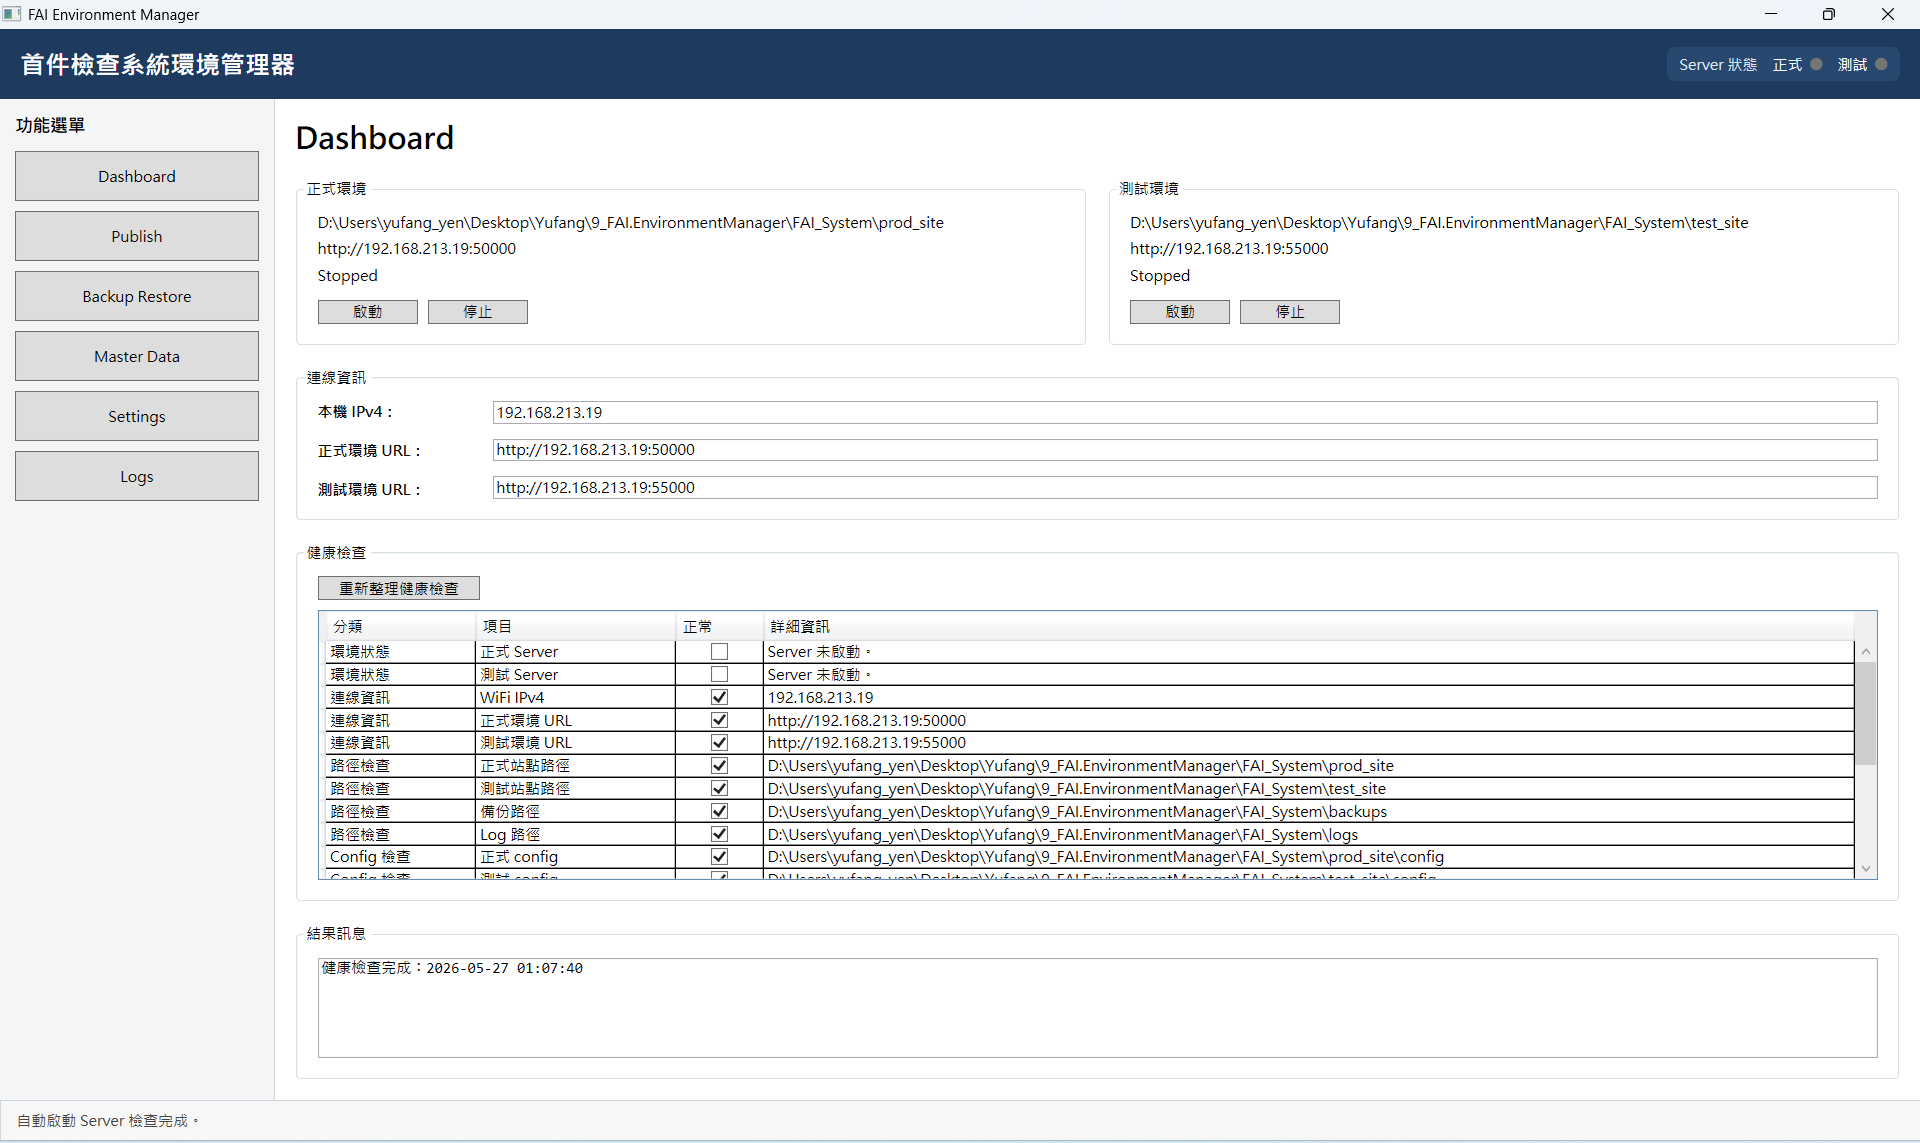
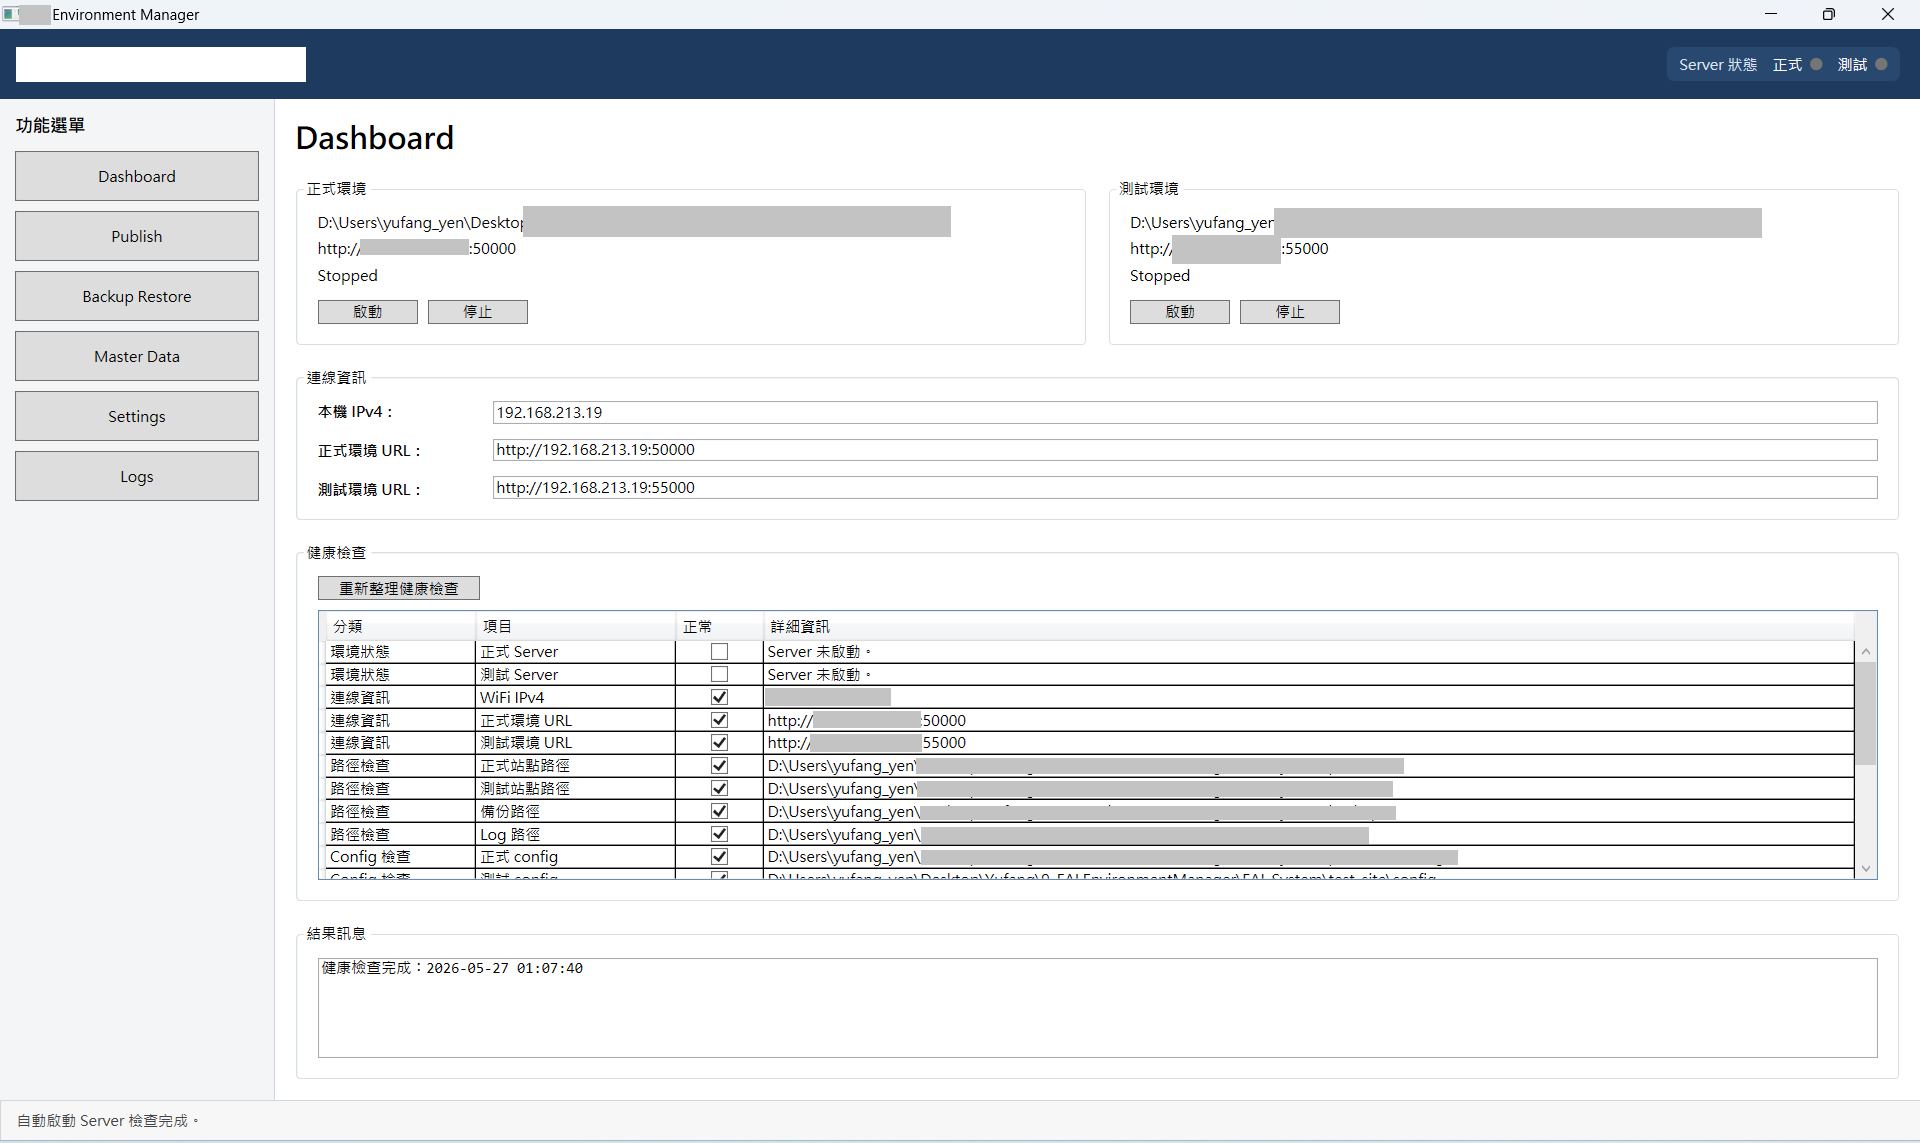
update index.html and wpf

diff --git a/index.html b/index.html
@@ -15,7 +15,7 @@
                 --text-color: #e5e7eb;
                 --sub-text: #94a3b8;
 
-                --hero-overlay: linear-gradient(to right, rgba(10,20,40,0.6), rgba(10,20,40,0.9));
+                --hero-overlay: linear-gradient(to right, rgba(10,20,40,0.5), rgba(10,20,40,0.9));
                 --hero-blur: rgba(5, 10, 25, 0.75);
 
                 --shadow: 0 10px 30px rgba(0,0,0,0.5);
@@ -30,7 +30,7 @@
                 --text-color: #0f172a;
                 --sub-text: #475569;
 
-                --hero-overlay: linear-gradient(to right, rgba(255,255,255,0.6), rgba(240,245,255,0.9));
+                --hero-overlay: linear-gradient(to right, rgba(255,255,255,0.5), rgba(240,245,255,0.9));
                 --hero-blur: rgba(255, 255, 255, 0.6);
 
                 --shadow: 0 10px 30px rgba(0,0,0,0.3);
@@ -72,7 +72,8 @@
             .hero-text {
                 position: relative;
                 max-width: 600px;
-                margin-left: 10%;
+                margin-left: 12%;
+                margin-top: 40px;
                 z-index: 1;
                 animation: fadeUp 1.2s ease forwards;
                 opacity: 0;
@@ -147,10 +148,11 @@
                 color: #aaa;
                 font-size: 13px;
                 margin-top: 10px;
+                margin-bottom: 10px;
             }
 
 
-            /* ✅ 流動動畫 */
+            /* 流動動畫 */
             .arch-line span {
                 position: absolute;
                 width: 40px;
@@ -164,7 +166,7 @@
                 100% { left: 100%; }
             }
 
-            /* ✅ Responsive */
+            /* Responsive */
             @media (max-width: 768px) {
                 .architecture-horizontal {
                     flex-direction: column;
@@ -248,20 +250,55 @@
             .scroll-btn {
                 position: absolute;
                 top: 40%;
-                background: #1e2a3a;
-                color: white;
-                border: none;
-                font-size: 24px;
-                padding: 10px;
+
+                background: rgba(255, 255, 255, 0.6);
+                color: var(--text-color);
+
+                border: 1px solid rgba(255,255,255,0.12);
+
+                font-size: 20px;
+                padding: 10px 14px;
+
                 cursor: pointer;
                 z-index: 10;
+
+                backdrop-filter: blur(6px);
+
+                transition: all 0.25s ease;
+
+                box-shadow: 0 6px 20px rgba(0,0,0,0.4);
             }
 
-            .scroll-btn.left { left: -10px; }
-            .scroll-btn.right { right: -10px; }
+            .scroll-btn:hover {
+                background: rgba(74, 163, 255, 0.2);
+                color: #ffffff;
+                border-color: #4aa3ff;
+
+                transform: translateY(-10%) scale(1.05);
+            }
+
+            .scroll-btn:active {
+                transform: translateY(-10%) scale(0.95);
+            }
 
 
-            .card {
+            .scroll-btn.left { left: -5px; }
+            .scroll-btn.right { right: -5px; }
+
+            
+            body.light .scroll-btn {
+                background: rgba(0, 0, 0, 0.05);
+                color: #0f172a;
+                border: 1px solid rgba(0,0,0,0.1);
+            }
+
+            body.light .scroll-btn:hover {
+                background: #4aa3ff;
+                color: white;
+                border-color: #4aa3ff;
+            }
+
+            /* .card {
                 flex: 0 0 300px;
                 background: var(--card-color);
                 padding: 20px;
@@ -272,11 +309,42 @@
                 
                 transition: all 0.3s ease, background 0.4s ease, color 0.4s ease;
                 opacity: 0;
+            } */
+            
+            .card {
+                flex: 0 0 300px;
+                background: var(--card-color);
+                padding: 20px;
+                border-radius: 12px;
+
+                border: 1px solid var(--card-border);
+
+                /* ✅ 分層 shadow */
+                box-shadow: 
+                    0 2px 6px rgba(0,0,0,0.05),
+                    0 8px 20px rgba(0,0,0,0.08);
+
+                transition: 
+                    transform 0.3s ease,
+                    box-shadow 0.3s ease,
+                    border 0.3s ease;
+
+                opacity: 0;
             }
 
-            .card:hover {
+            /* .card:hover {
                 transform: translateY(-6px);
                 box-shadow: 0 12px 30px rgba(0,0,0,0.15);
+            } */
+
+            .card:hover {
+                transform: translateY(-8px) scale(1.01);  /* ✅ 多一點「存在感」 */
+
+                box-shadow: 
+                    0 12px 30px rgba(0,0,0,0.18),
+                    0 4px 12px rgba(0,0,0,0.1);
+
+                border: 1px solid rgba(99,102,241,0.4);  /* ✅ subtle 高級感 */
             }
 
             .card img {
@@ -308,7 +376,7 @@
                 margin: 0 5px;
             }
 
-            /* ✅ 動畫 keyframes */
+            /* 動畫 keyframes */
             @keyframes fadeUp {
                 from {
                     opacity: 0;
@@ -423,7 +491,7 @@
             }
 
             .workflow-icon {
-                font-size: 24px;
+                font-size: 28px;
                 margin-bottom: 10px;
             }
 
@@ -485,8 +553,8 @@
         <section class="hero">
             <div class="hero-text">
                 <h1>Manufacturing System Engineer</h1>
-                <p class="hero-sub">
-                    Factory System Integration | OT + IT + MES
+                <p class="hero-sub">           
+                    End-to-End Factory System Design
                 </p>
                 <p>Building integrated factory systems connecting equipment, MES, and real-time data workflows</p>
                 <p>PWA | Power Platform | C# | WPF</p>
@@ -499,18 +567,13 @@
                 About
             </p>
             <p>
-                I design and implement manufacturing systems that integrate equipment control, workflow automation, and MES systems into a unified architecture.
+                I design and build manufacturing systems that connect equipment, workflows, and data into a unified platform.
+            </p>    
+            <p>
+                With an Industrial Engineering background, I translate real-world factory processes into structured and maintainable systems.
             </p>
             <p>
-                My experience spans equipment-level control (PLC interaction), Web API development, and MES integration — enabling real-time data flow from shopfloor operations to management systems.
-            </p>
-            <p>
-                With a background in Industrial Engineering, I focus on transforming real-world 
-                factory processes into structured, reliable, and maintainable systems.
-            </p>
-            <p>
-                My work emphasizes clear system boundaries, standardized workflows, and scalability 
-                — ensuring stable operation in real production environments.
+                My focus is on system stability, clear architecture, and scalable design for real production environments.
             </p>
         </section>
 
@@ -530,13 +593,16 @@
                     <div class="arch-box">Equipment / PLC</div>
                     <div class="arch-line"><span></span></div>
 
+                    
                     <div class="arch-box">Integration (C# API)</div>
                     <div class="arch-line"><span></span></div>
 
+                    
                     <div class="arch-box">Workflow (Power Platform)</div>
                     <div class="arch-line"><span></span></div>
 
-                    <div class="arch-box">MES System</div>
+                    
+                    <div class="arch-box">Manufacturing systems (MES)</div>
                     <div class="arch-line"><span></span></div>
 
                     <div class="arch-box">Monitoring / SPC</div>
@@ -548,44 +614,42 @@
                     Event-driven data flow from equipment to MES and monitoring layer,
                     ensuring real-time visibility and decision support.
                 </p>
-
-
             </div>
-
-
-
             <div class="flow">
-
                 <div class="flow-step">
+                    <div>Real-time Data Capture</div>
                     <h3>Equipment / Operation</h3>
                     <p class="flow-role">Captures real-time operational data</p>
                     <p>PWA (Inspection)</p>
                 </div>
 
                 <div class="flow-step">
+                    <div>System Integration Layer</div>
                     <h3>Integration</h3>
                     <p class="flow-role">Transforms equipment signals into structured data</p>
                     <p>C# API / MES Communication</p>
                 </div>
 
                 <div class="flow-step">
+                    <div>Process Automation</div>
                     <h3>Workflow</h3>
                     <p class="flow-role">Automates processes and task coordination</p>
                     <p>Power Platform</p>
                 </div>
 
                 <div class="flow-step">
+                    <div>Rule Configuration</div>
                     <h3>Configuration</h3>
                     <p class="flow-role">Controls rules and data structure</p>
                     <p>Template System</p>
                 </div>
 
                 <div class="flow-step">
+                    <div>Event Monitoring</div>
                     <h3>Monitoring</h3>
                     <p class="flow-role">Analyzes data and detects abnormal events</p>
                     <p>SPC Alert System (Planned)</p>
                 </div>
-
             </div>
         </section>
 
@@ -611,6 +675,7 @@
                         </div>
                         <h2>[ Integration Layer ]</h2>
                         <h3>Equipment & MES Integration</h3>
+                        <h6>Integration Layer Connects PLC, API, and MES systems</h6>
                         <p>
                             Transforms PLC signals into structured events<br>
                             Implements Web APIs for real-time integration<br>
@@ -623,7 +688,7 @@
                     <div class="card">
                         <img src="inspection.png" alt="Inspection System">
                         <h2>[ Operation Layer ]</h2>
-                        <h3>Inspection System (PWA)</h3>
+                        <h3>Inspection System</h3>
                         <p>
                             Captures real-time production data from shopfloor operations<br>
                             Ensures structured and validated input<br>
@@ -647,7 +712,7 @@
                     <div class="card">
                         <img src="wpf.png" alt="WPF Tool">
                         <h2>[ Infrastructure Layer ]</h2>
-                        <h3>System Environment Manager (WPF)</h3>
+                        <h3>System Environment Manager</h3>
                         <p>
                             Maintains system stability and service control<br>
                             Manages environment configuration<br>
@@ -668,7 +733,7 @@
             <div class="demo-grid">
 
                 <div class="demo-item">
-                    <h3>Inspection (PWA)</h3>
+                    <h3>Inspection</h3>
                     <img src="inspection.gif">
                 </div>
 
@@ -678,7 +743,7 @@
                 </div>
 
                 <div class="demo-item">
-                    <h3>MTS (Teams + Power Platform)</h3>
+                    <h3>Abnormal Event Report</h3>
                     <img src="teams.gif">
                 </div>
 
@@ -689,7 +754,7 @@
         <!-- 6 WORKFLOW -->
         <section class="workflow">
             <h2>Workflow</h2>
-
+            <h4>Closed-loop execution from issue reporting to system monitoring</h4>
             <p class="workflow-desc">
                 A closed-loop process connecting real-time event capture, system integration,
                 workflow execution, and monitoring.
@@ -712,7 +777,7 @@
                 <div class="workflow-step">
                     <div class="workflow-icon">🔧</div>
                     <h3>Execute</h3>
-                    <p>Handled through PWA system and operational actions</p>
+                    <p>Handled through management system and operational actions</p>
                 </div>
 
                 <div class="workflow-step">